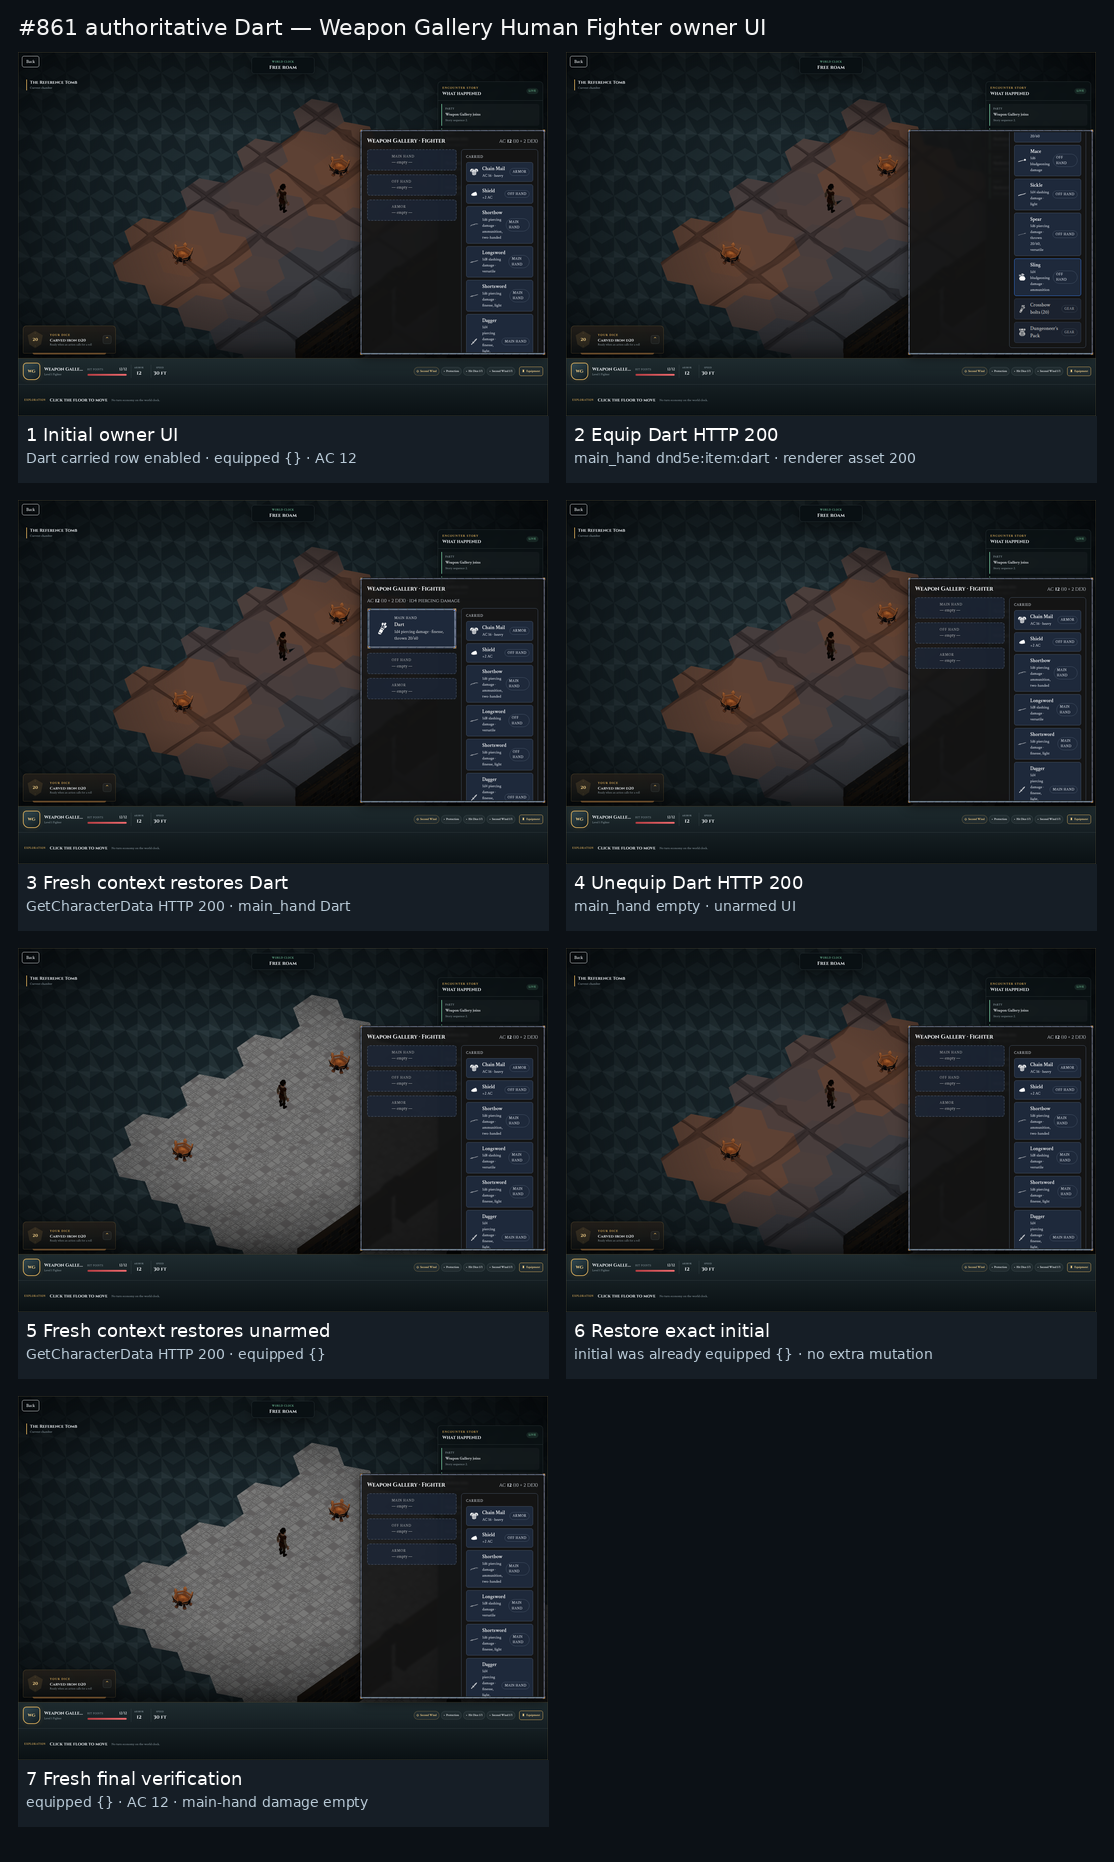
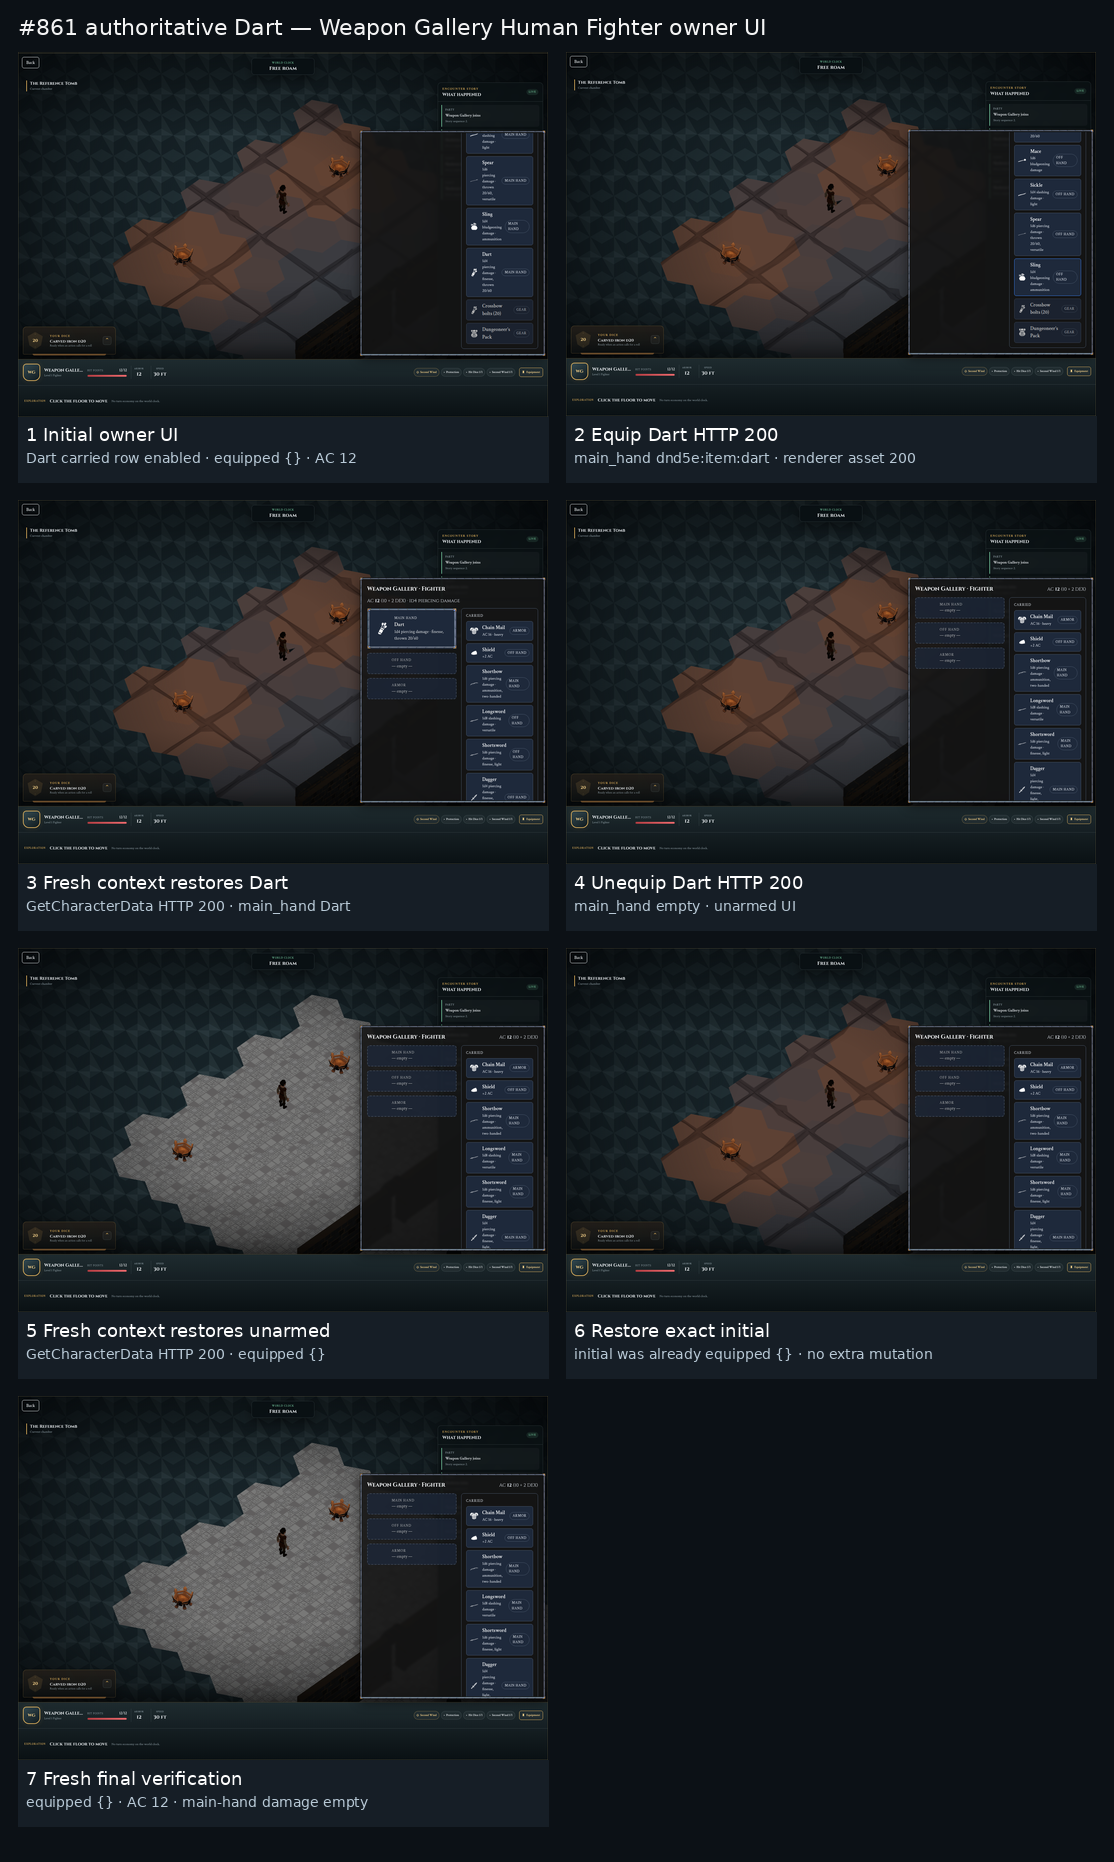
fix: harden simple weapon evidence

Changed region(s): [[0.3052, 0.0311, 0.4883, 0.218], [0.0305, 0.1869, 0.1221, 0.218]]

diff --git a/docs/evidence/861-simple-weapon-consumer/README.md b/docs/evidence/861-simple-weapon-consumer/README.md
@@ -51,12 +51,13 @@ records the normal web UI sequence for the dedicated `weapon-gallery` identity.
 The owner is displayed as Weapon Gallery, Human Fighter. Character/lobby/session
 identifiers are intentionally redacted and not published.
 
-- `ListCharacters` HTTP 200 returned exactly one Weapon Gallery character. The
-  server-owned inventory contained 22 weapon refs with no duplicates, plus
-  non-weapon gear.
+- The normal web character list returned exactly one Weapon Gallery character.
+  The server-owned inventory contained 22 weapon refs with no duplicates, plus
+  non-weapon gear; no separate HTTP-status claim is made for that list result.
 - Initial `GetCharacterData` HTTP 200 showed equipped slots `{}`; presented AC
   `12` (`10 + 2 DEX`); main-hand damage empty.
-- The owner equipment popover exposed an enabled carried Dart row.
+- The owner equipment popover exposed an enabled carried Dart row, visibly shown
+  in the first authoritative contact-sheet tile.
 - `EquipItem` HTTP 200 returned complete `CharacterData`; the UI/renderer showed
   `main_hand: dnd5e:item:dart`, main-hand damage `1d4 piercing damage`, and the
   Dart GLB loaded with HTTP 200 and the exact SHA-256.
@@ -77,7 +78,7 @@ all zero.
 | --- | ---: | --- | --- |
[4 lines of base64/hex data omitted]
 
 `receipt.json` also binds PNG magic, Pillow media format, and decoded RGB hashes.
 
